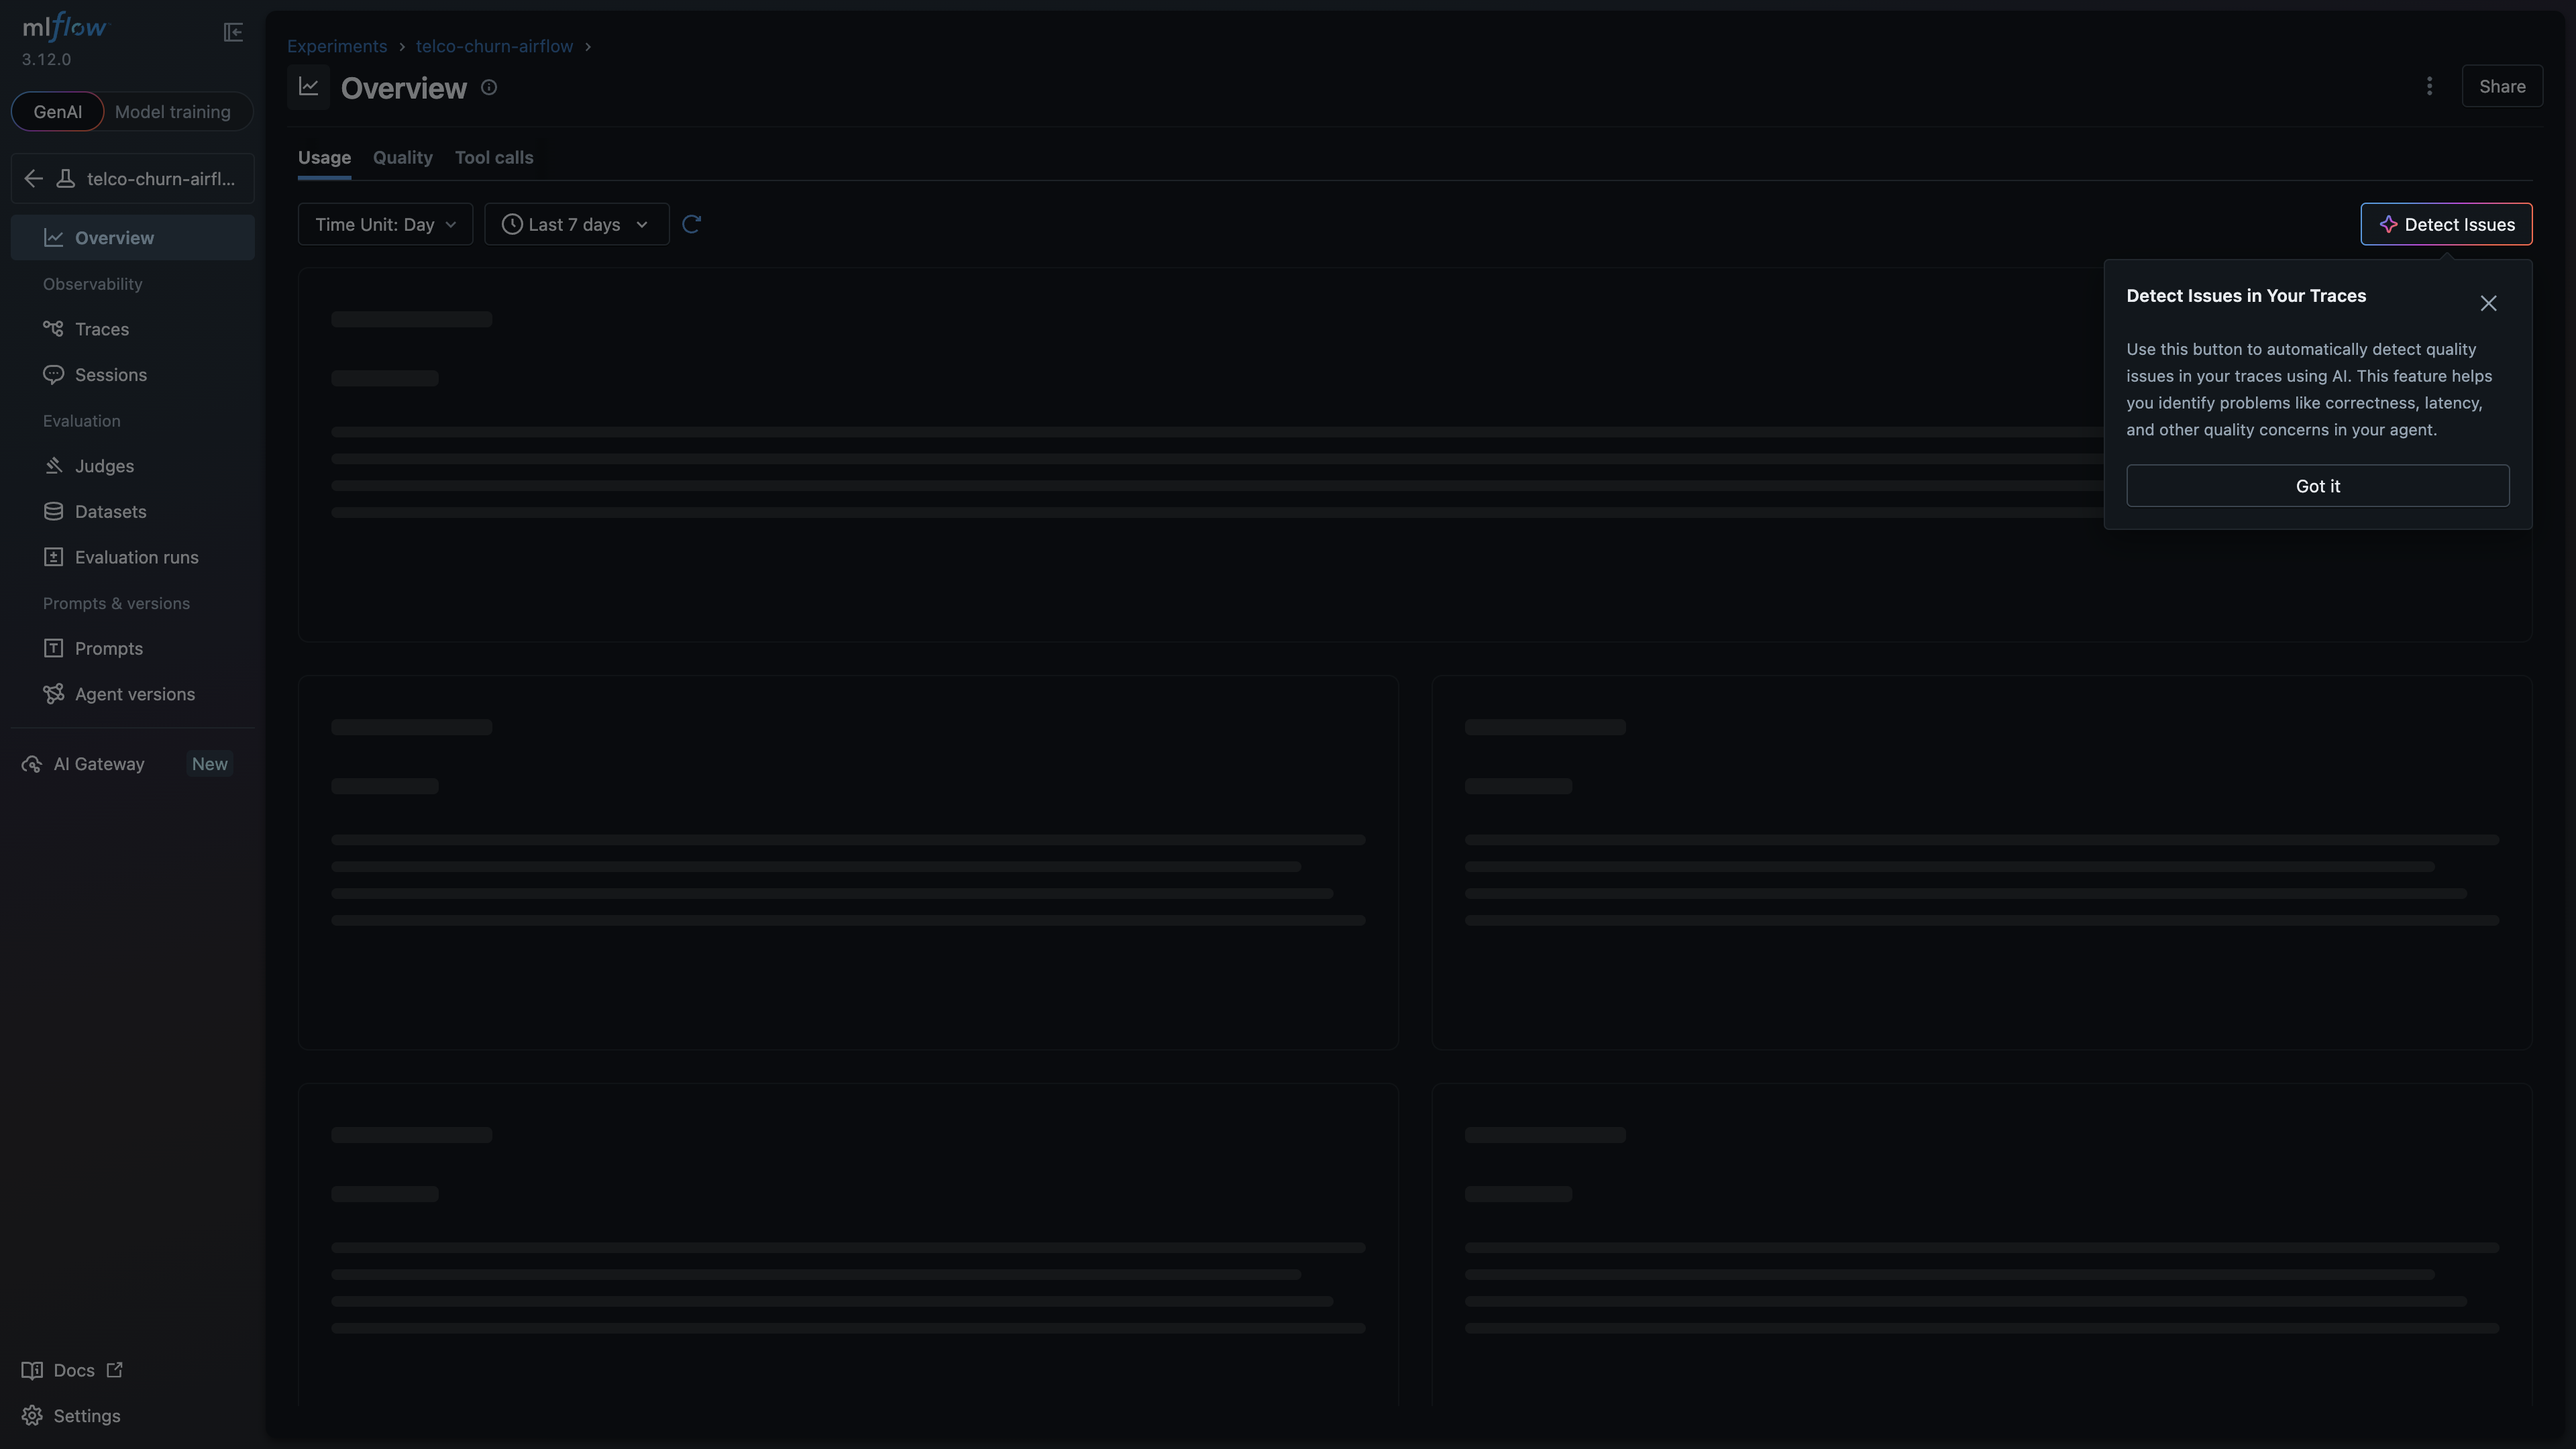
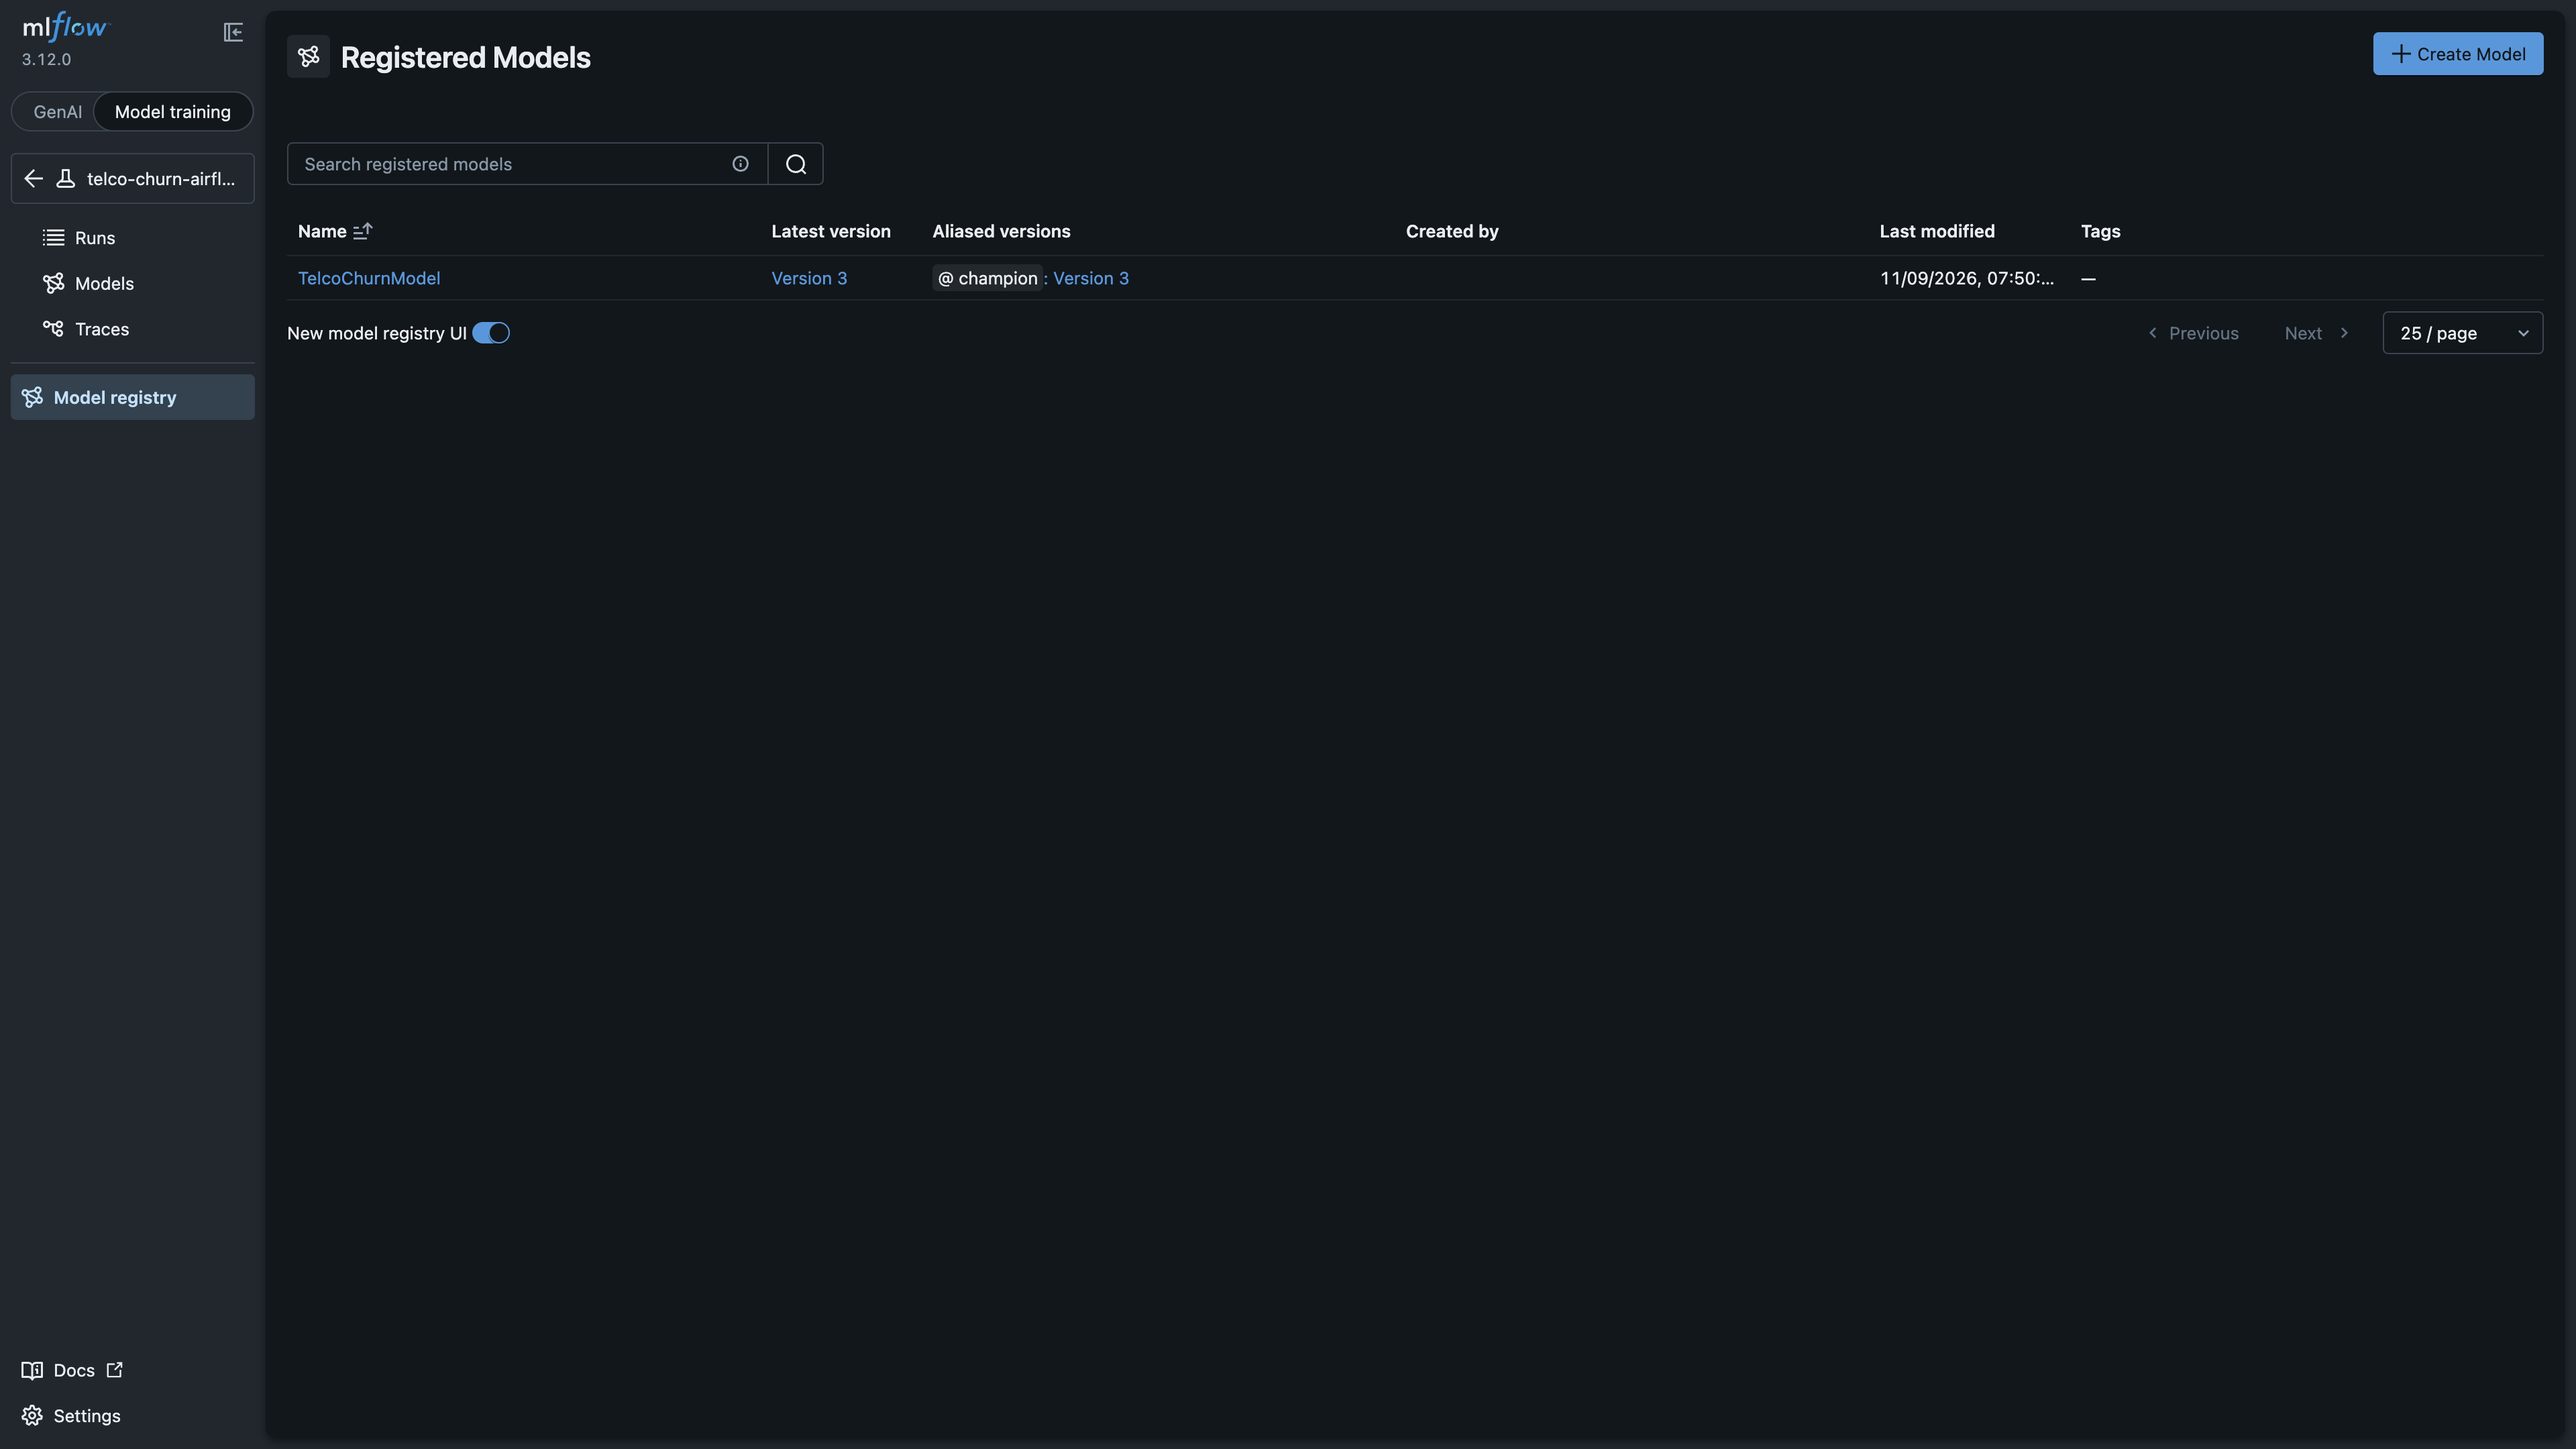
Replace empty MLflow overview with champion model registry screenshot.

diff --git a/README.md b/README.md
@@ -18,7 +18,7 @@ Screenshots: [`screenshots/`](screenshots/)
 | [03-training-pipeline.png](screenshots/03-training-pipeline.png) | Training graph green, HITL done, asset events |
 | [04-assets.png](screenshots/04-assets.png) | `telco_churn_champion_model` |
 | [05-mlflow.png](screenshots/05-mlflow.png) | MLflow experiment `telco-churn-airflow` |
-| [06-mlflow-experiment.png](screenshots/06-mlflow-experiment.png) | Experiment overview |
+| [06-mlflow-experiment.png](screenshots/06-mlflow-experiment.png) | Model registry: `TelcoChurnModel` v3 alias `champion` |
 
 ## 2. Prompt engineering (30 points)
 
